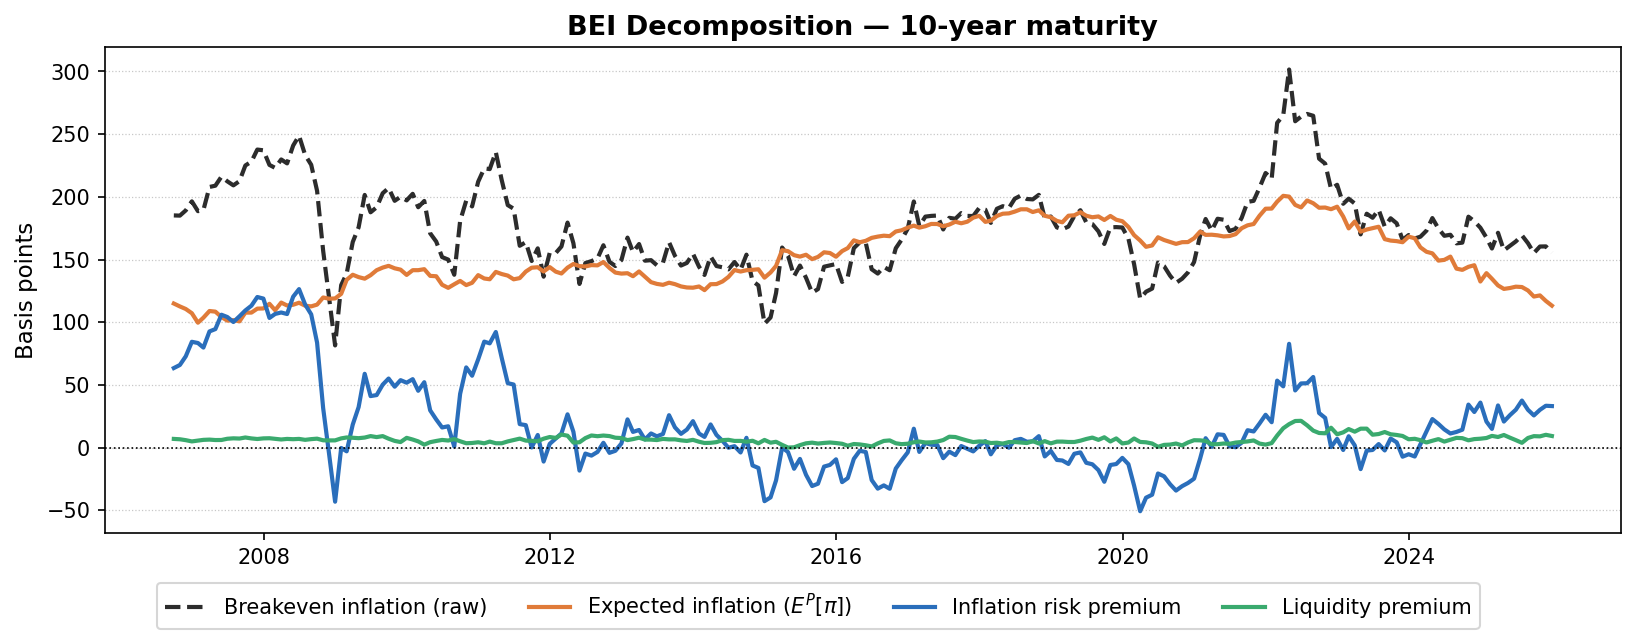
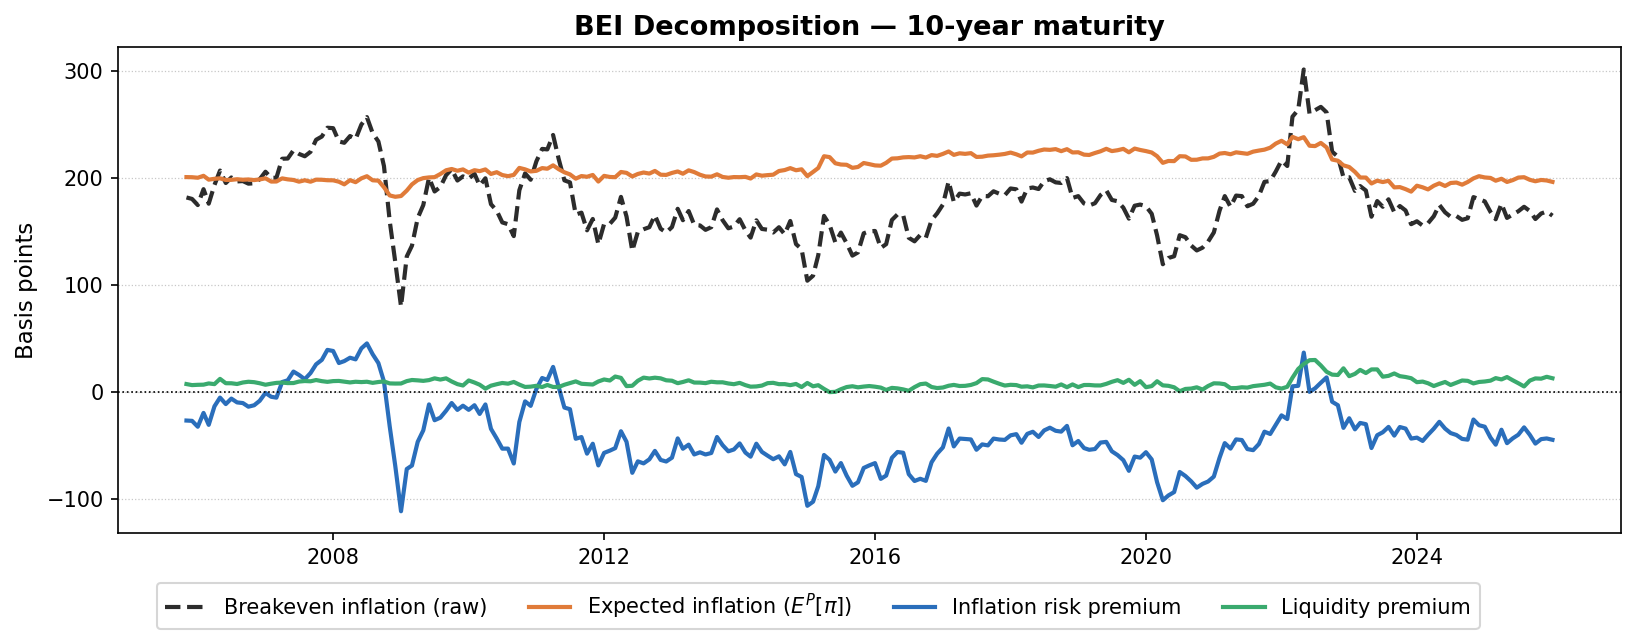
23rd march

diff --git a/Estimation_test.py b/Estimation_test.py
@@ -38,8 +38,7 @@ real_zc_monthgrid_path    = "zero_yields_SGBIL.xlsx"
  
 state_factors = [
     "PC1_level", "PC2_slope", "PC3_curvature",
-    "composite_liq", "Real_PC1", "Real_PC2",
-    "infl_trend"                                       # regime factor — free in pi1
+    "composite_liq", "Real_PC1", "Real_PC2"
 ]
  
 NOM_RET_MONTHS_FULLYEARS  = np.arange(12, 121, 12)
@@ -55,19 +54,6 @@ df_f = read_excel_date_index(factors_path, sheet_name=0)
 df_inf = (
     read_excel_date_index("CPI_and_rate.xlsx", sheet_name="inflation")
     .rename(columns={"monthly log": "inflation"})
-)
-
-# ── Inflation trend factor (24-month trailing mean, annualised) ───────────────
-# Captures low-frequency inflation regime shifts without contaminating the
-# liquidity factor identification. Added to state vector as 7th factor.
-_infl_monthly = df_inf["inflation"] / 100.0          # already monthly log returns
-df_f["infl_trend"] = (
-    _infl_monthly
-    .reindex(df_f.index)
-    .ffill()
-    .rolling(24, min_periods=12)
-    .mean()
-    .mul(12)                                           # annualise to match yield units
 )
  
 df_r = (
@@ -196,7 +182,8 @@ def estimate_model(cutoff_date,
                    .sort_index().reindex(columns=asset_order))
     Sigma_e_hat = (E_hat.to_numpy().T @ E_hat.to_numpy()) / E_hat.shape[0]
     eigvals     = np.linalg.eigvalsh(Sigma_e_hat)
-    W           = np.linalg.inv(Sigma_e_hat + max(1e-10, 1e-6 * np.max(eigvals)) * np.eye(Sigma_e_hat.shape[0]))
+    # adding a ridge
+    W = np.linalg.inv(Sigma_e_hat + max(1e-10, 1e-9 * np.max(eigvals)) * np.eye(Sigma_e_hat.shape[0]))
     if verbose: print("Sigma_e_hat eig min/max:", np.min(eigvals), np.max(eigvals))
  
     # ── Phi_tilde via GLS ─────────────────────────────────────────────────────
@@ -256,8 +243,6 @@ def estimate_model(cutoff_date,
     lb[1 + liq_idx] = -1e-8
     ub[1 + liq_idx] =  1e-8
     x0[1 + liq_idx] =  0.0
-    # infl_trend is intentionally unconstrained — it is the dedicated channel
-    # for inflation regime dynamics and should enter pi1 freely
 
     def tips_AB_local(pi0, pi1):
         A, B = np.zeros(max_n + 1, float), np.zeros((max_n + 1, K), float)
@@ -512,7 +497,7 @@ def rescore_E_inf(res_oos, df_f, state_factors):
 # ══════════════════════════════════════════════════════════════════════════════
  
 results = estimate_model(
-    cutoff_date               = "2099-12-31",
+    cutoff_date               = "2022-12-31",
     df_f                      = df_f,
     df_inf                    = df_inf,
     df_r                      = df_r,
@@ -1111,3 +1096,4 @@ plt.tight_layout()
 plt.subplots_adjust(hspace=0.45)
 fig.savefig("nominal_real_yields.png", dpi=150, bbox_inches="tight")
 plt.show()
+

diff --git a/estimation_compact.py b/estimation_compact.py
@@ -182,7 +182,8 @@ def estimate_model(cutoff_date,
                    .sort_index().reindex(columns=asset_order))
     Sigma_e_hat = (E_hat.to_numpy().T @ E_hat.to_numpy()) / E_hat.shape[0]
     eigvals     = np.linalg.eigvalsh(Sigma_e_hat)
-    W           = np.linalg.inv(Sigma_e_hat + max(1e-10, 1e-6 * np.max(eigvals)) * np.eye(Sigma_e_hat.shape[0]))
+    # adding a ridge
+    W = np.linalg.inv(Sigma_e_hat + max(1e-10, 1e-9 * np.max(eigvals)) * np.eye(Sigma_e_hat.shape[0]))
     if verbose: print("Sigma_e_hat eig min/max:", np.min(eigvals), np.max(eigvals))
  
     # ── Phi_tilde via GLS ─────────────────────────────────────────────────────
@@ -238,10 +239,10 @@ def estimate_model(cutoff_date,
                    np.r_[ 0.20, np.full(K,  1.0)] - 1e-12)
     lb   = np.r_[-0.20, np.full(K, -1.0)]
     ub   = np.r_[ 0.20, np.full(K,  1.0)]
-    liq_idx = state_factors.index("composite_liq")
-    lb[1 + liq_idx] = -1e-8
-    ub[1 + liq_idx] =  1e-8
-    x0[1 + liq_idx] =  0.0
+    #liq_idx = state_factors.index("composite_liq")
+    #lb[1 + liq_idx] = -1e-8
+    #ub[1 + liq_idx] =  1e-8
+    #x0[1 + liq_idx] =  0.0
 
     def tips_AB_local(pi0, pi1):
         A, B = np.zeros(max_n + 1, float), np.zeros((max_n + 1, K), float)
@@ -1095,4 +1096,3 @@ plt.tight_layout()
 plt.subplots_adjust(hspace=0.45)
 fig.savefig("nominal_real_yields.png", dpi=150, bbox_inches="tight")
 plt.show()
-
